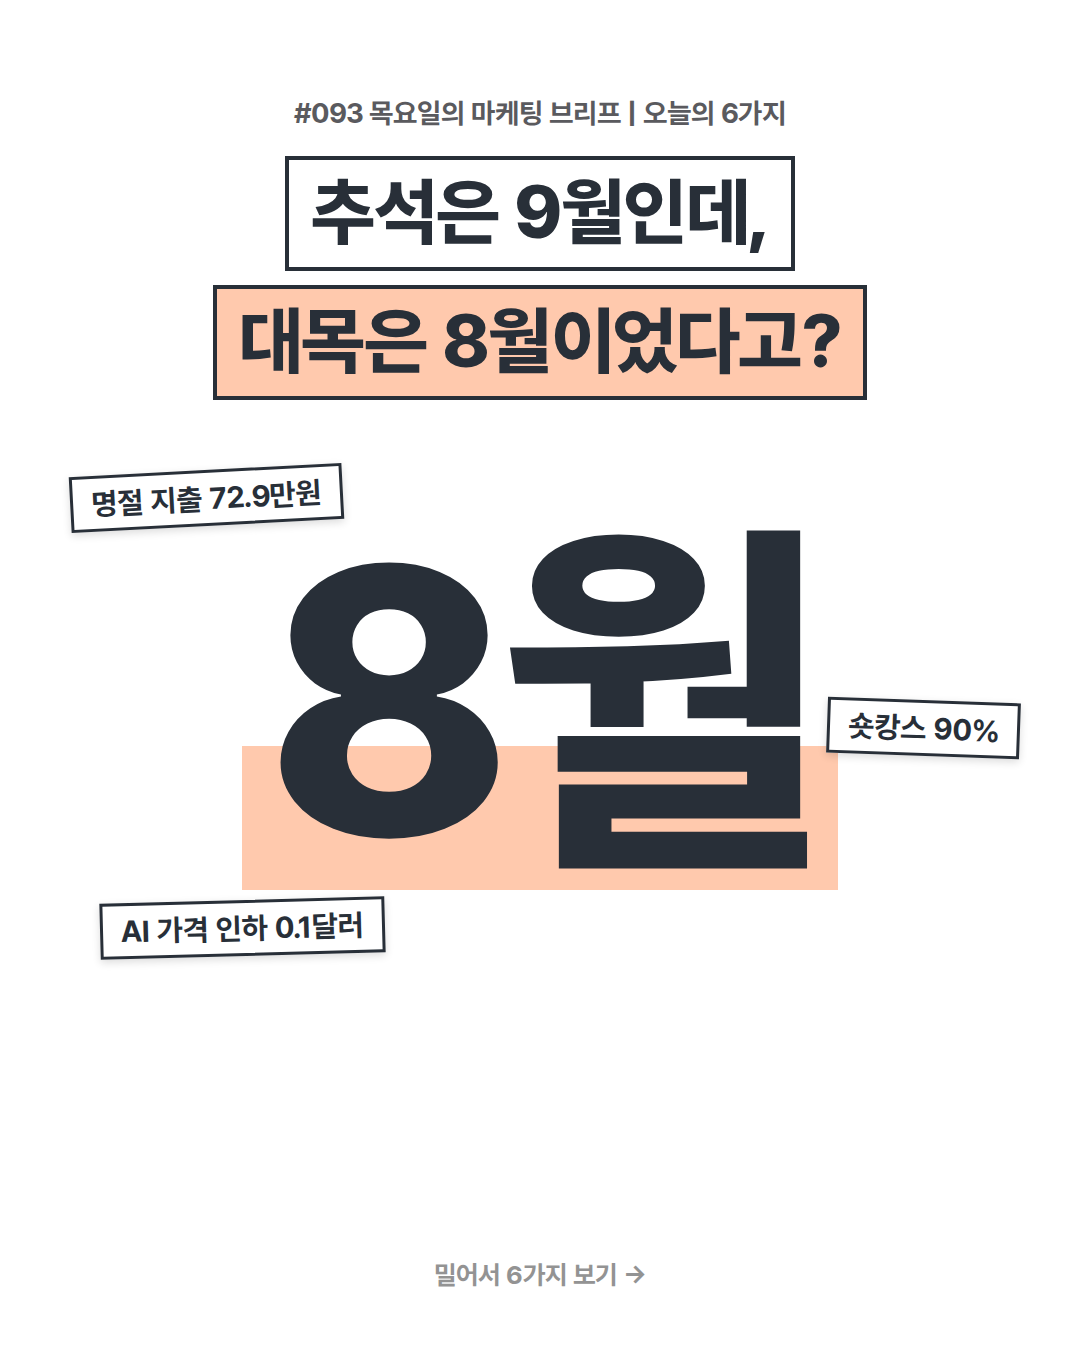
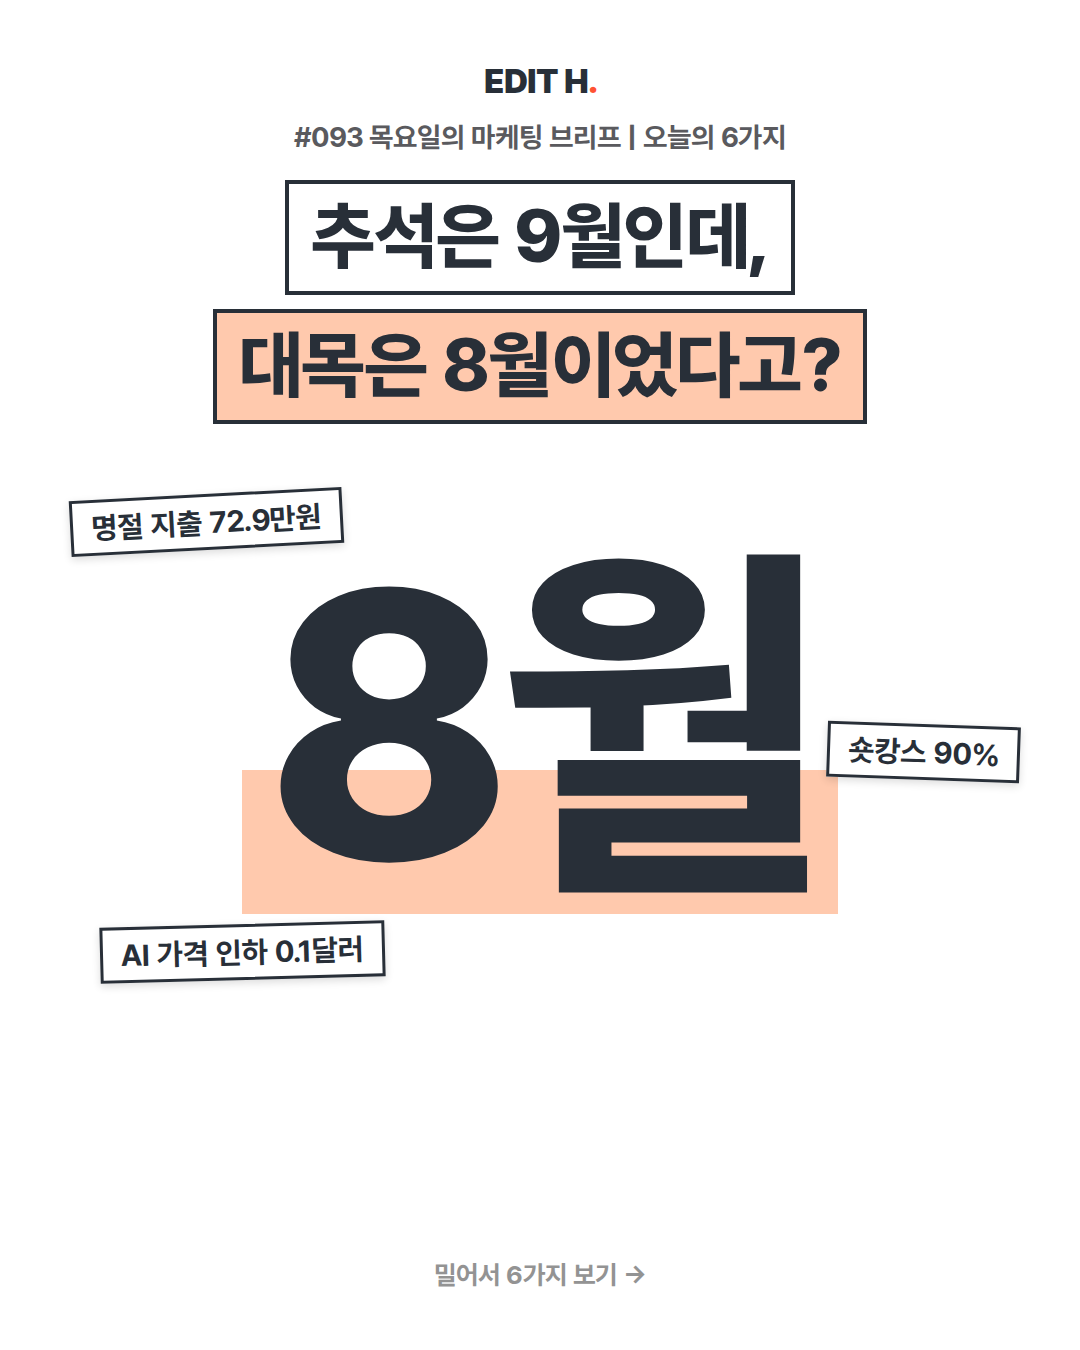
Biscit-inspired touches: cover wordmark, caption credit and sign-off
After comparing against @biscit.co.kr posts:

- cover: small "EDIT H." wordmark at the top of every cover, so the
  brand stays visible when a post is shared or saved out of the grid
- caption: cover photo credit line when a photo is used, and a brand
  sign-off line ("EDIT H · 매일 아침, 마케터의 트렌드 한 입")
- RUNBOOK: two cover-title patterns (question hook, utility listicle),
  and try a photo cover first when photo access is allowed
- VOL.093 rebuilt

Claude-Session: https://claude.ai/code/session_01ERT3EipEoswRZZJYwfnxsr

diff --git a/instagram/2026-09-24/index.html b/instagram/2026-09-24/index.html
@@ -59,7 +59,8 @@
 💬 우리 브랜드의 대목은, 달력보다 몇 주 먼저 오나요? 댓글로 알려주세요
 
 📩 댓글에 &#x27;에디트&#x27; 남기면 뉴스레터 구독 링크를 DM으로 보내드려요
-매 영업일 아침 9시, 10가지 전문과 출처는 뉴스레터로 — 프로필 링크 @edit.h.kr
+매 영업일 아침 9시, 10가지 전문과 출처는 뉴스레터로 — 프로필 링크
+EDIT H · 매일 아침, 마케터의 트렌드 한 입 (@edit.h.kr)
 #마케팅 #마케팅트렌드 #마케터 #추석마케팅 #명절마케팅 #유통트렌드 #AI커머스 #카드뉴스 #EDITH</pre>
   </section>
 </main>

diff --git a/automation/edith/cards.py b/automation/edith/cards.py
@@ -3,7 +3,7 @@
 Design M 카드뉴스 키트 '매거진 세트'(표지 24 → 본문 9 → 마무리 9) 규격을 재현한 것으로, 키트 원본
 파일·이미지는 쓰지 않고 실측한 치수·색만 옮겼다. 키트의 핑크는 EDIT H 브랜드 버밀리언 계열로 바꿨다.
 
-  01      표지     머리말 + 띠 제목 두 줄(뉴닉식) + 핵심어 대형 마커 또는 실사 사진 + 다른 이슈 스티커 3개
+  01      표지     EDIT H. 워드마크(비스킷식) + 머리말 + 띠 제목 두 줄(뉴닉식) + 핵심어 대형 마커 또는 실사 사진 + 다른 이슈 스티커 3개
   02      요약     '오늘의 6가지 한눈에' — 번호·제목·숫자 목록(키트 본문 19·20 문법). 저장을 부르는 카드
   03~08   이슈 6장  말풍선 태그 → 형광 마커 숫자 → 보조 수치 상자 → 번호 배지 → 제목 → 짧은 본문 → '그래서 마케터는?' 대화
                    H PICK 1장은 검정 배경 + 윤곽 숫자 + 노란 '(H PICK · 오늘의 핵심)', compare형은 BEFORE/AFTER 상자
@@ -179,8 +179,9 @@ def cover(d):
     credit = (f'<div style="position:absolute;right:40px;bottom:24px;font-size:19px;color:rgba(255,255,255,.85);{shadow}">'
               f'{esc(cov["credit"])}</div>') if photo and cov.get("credit") else ""
     return _frame(f"""{bg}
-<div class="body" style="padding:96px 60px 0;align-items:center;text-align:center;">
-  <div style="font-weight:700;font-size:28px;color:#5A5A5E;">{esc(kicker)}</div>
+<div class="body" style="padding:64px 60px 0;align-items:center;text-align:center;">
+  <div style="font-weight:900;font-size:34px;line-height:1;letter-spacing:-1px;color:{TEXT};">EDIT H<span style="color:{ACC};">.</span></div>
+  <div style="margin-top:22px;font-weight:700;font-size:28px;color:#5A5A5E;">{esc(kicker)}</div>
   <div style="flex:none;margin-top:26px;display:flex;flex-direction:column;align-items:center;gap:14px;">{_strip(l1, "#FFFFFF")}{_strip(l2, ACC_FILL)}</div>
   <div style="flex:none;position:relative;margin-top:70px;width:100%;height:560px;">{hero}{sticker_html}</div>
 </div>

diff --git a/automation/edith/site.py b/automation/edith/site.py
@@ -126,11 +126,15 @@ def instagram_caption(d, site):
     lines = [head, "", f"{d['weekday']}요일의 마케팅 브리프 {len(issues)}가지 👇"]
     lines += [f"· {plain(it['headline'])}" for it in issues]
     lines += ["", "📌 저장해두고 회의 전에 꺼내보세요", f"💬 {plain(d['question']['text'])} 댓글로 알려주세요", ""]
+    cov = (d.get("cards") or {}).get("cover") or {}
+    if cov.get("photo") and cov.get("credit"):
+        lines.append(f"📷 표지 사진 출처: {cov['credit'].replace('사진 = ', '')}")
     kw = (load_config().get("instagram") or {}).get("dm_keyword")
     if kw:
         lines.append(f"📩 댓글에 '{kw}' 남기면 뉴스레터 구독 링크를 DM으로 보내드려요")
     when = send_time_ko(d["send_time_kst"]).replace("오전", "아침")
-    lines.append(f"매 영업일 {when}, {len(d['all_items'])}가지 전문과 출처는 뉴스레터로 — 프로필 링크 @edit.h.kr")
+    lines.append(f"매 영업일 {when}, {len(d['all_items'])}가지 전문과 출처는 뉴스레터로 — 프로필 링크")
+    lines.append("EDIT H · 매일 아침, 마케터의 트렌드 한 입 (@edit.h.kr)")
     tags = ig.get("hashtags") or ["마케팅", "마케팅트렌드", "마케터", "브랜드마케팅", "카드뉴스", "EDITH"]
     lines.append(" ".join("#" + re.sub(r"\s+", "", t.lstrip("#")) for t in tags))
     return "\n".join(lines)

diff --git a/automation/RUNBOOK.md b/automation/RUNBOOK.md
@@ -83,7 +83,7 @@ IT·산업 전문지(전자신문, ZDNet Korea, 디지털데일리, AI타임스,
 
 | 필드 | 내용 |
 |---|---|
-| `date`, `emoji`, `title`, `hero_title`, `subtitle` | 제목은 질문·반전형으로 짧게, 쉼표로 호흡 (`토스가 이번엔, 새벽배송을 품었다고?`). `hero_title` 은 뉴스레터 머리 제목(카드 표지 기본값) — 두 줄(`\n`)로 쓰면 첫 줄은 굵게, 둘째 줄은 보통 굵기. `title` 은 빅이슈 제목으로도 쓰인다 |
+| `date`, `emoji`, `title`, `hero_title`, `subtitle` | 제목은 두 유형 중 하나로 짧게(두 줄, 줄마다 12자 안팎): **질문·반전형**(뉴닉식, `토스가 이번엔, 새벽배송을 품었다고?`) 또는 **쓸모형 목록**(비스킷식, `회의 때 꺼내기 좋은, 추석 마케팅 숫자 6`). `hero_title` 은 뉴스레터 머리 제목(카드 표지 기본값) — 두 줄(`\n`)로 쓰면 첫 줄은 굵게, 둘째 줄은 보통 굵기. `title` 은 빅이슈 제목으로도 쓰인다 |
 | `keywords` | 5개(manifest·아카이브용) |
 | `source_mode` | `anjang` / `mixed` / `fallback` |
 | `lead`, `lead_points`, `observation` | '오늘의 편지'. `lead_points` = 오늘의 핵심 3개 `{"title", "text"}` — 편지 안 번호 목록(title 22자·text 40자 이하). `observation` 은 'H의 한 줄 관찰' |
@@ -114,7 +114,7 @@ IT·산업 전문지(전자신문, ZDNet Korea, 디지털데일리, AI타임스,
 
 ### 표지 사진 (선택, 10분 안에)
 
-뉴닉처럼 실사 사진 표지가 스크롤을 더 잘 멈추게 한다. 단 보도사진은 쓸 수 없으니 재사용 가능한 사진만 쓴다.
+레퍼런스 두 곳(뉴닉·비스킷) 모두 표지가 실사 사진이다 — 사진 접속이 허용된 환경이면 **먼저 시도**한다. 단 보도사진은 쓸 수 없으니 재사용 가능한 사진만 쓴다.
 
 ```bash
 python3 automation/fetch_photo.py "영어 검색어"                       # 후보: 번호·라이선스·작가·설명

diff --git a/automation/README.md b/automation/README.md
@@ -96,6 +96,6 @@ content/YYYY-MM-DD.json 호마다의 원본 콘텐츠(출처 URL 포함)
 2026-09-24 뉴닉(@newneek.official) 게시물 비교 후 보강: 표지 제목을 줄마다 띠 상자로(그리드에서 읽히게), 표지에 다른 이슈
 스티커 3개, 인사이트를 '그래서 마케터는?' 대화 말풍선으로, 캡션을 '질문형 훅 → 오늘의 목록 → 저장·댓글 유도 → 댓글 키워드 DM 안내'로.
 표지 실사 사진은 위키미디어 커먼즈의 CC0·퍼블릭 도메인·CC BY 사진만(`automation/fetch_photo.py`, 네트워크 허용 필요) 쓰고,
-못 구하면 핵심어 표지로 자동 전환한다. 댓글 키워드는 `config.json` 의 `instagram.dm_keyword`(기본 '에디트') — DM 은 직접 보낸다.
+못 구하면 핵심어 표지로 자동 전환한다. 비스킷(@biscit.co.kr) 비교 후: 표지 상단 `EDIT H.` 워드마크(모든 표지 같은 자리 — 공유·저장돼도 브랜드가 보이게), 쓸모형 목록 제목 유형, 캡션에 표지 사진 출처와 브랜드 서명 줄. 댓글 키워드는 `config.json` 의 `instagram.dm_keyword`(기본 '에디트') — DM 은 직접 보낸다.
 출처 글자는 흰 배경에서 #767676(대비 4.5:1)로 올렸다(키트 실측색 #939393 은 3.1:1 이라 접근성 기준 미달).
 키트 원본 파일·이미지는 쓰지 않는다. 프로필 마크는 VOL.092 발행 뒤 바뀐 최신 버전(버밀리언 원 + 안경).
